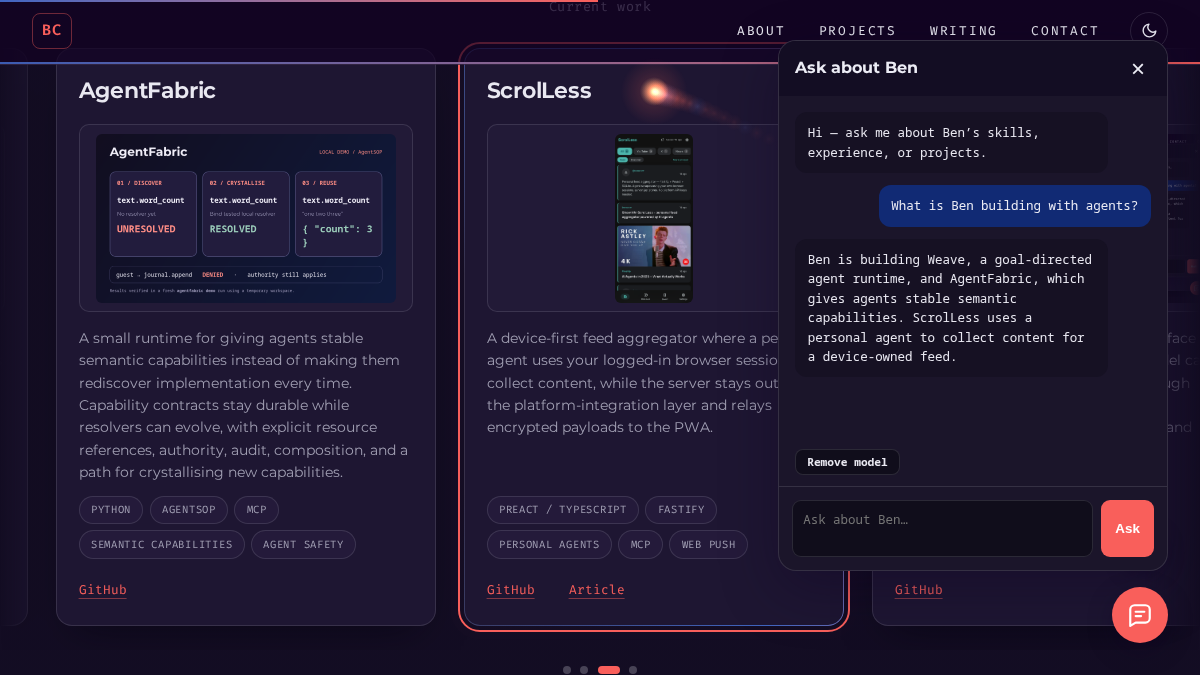
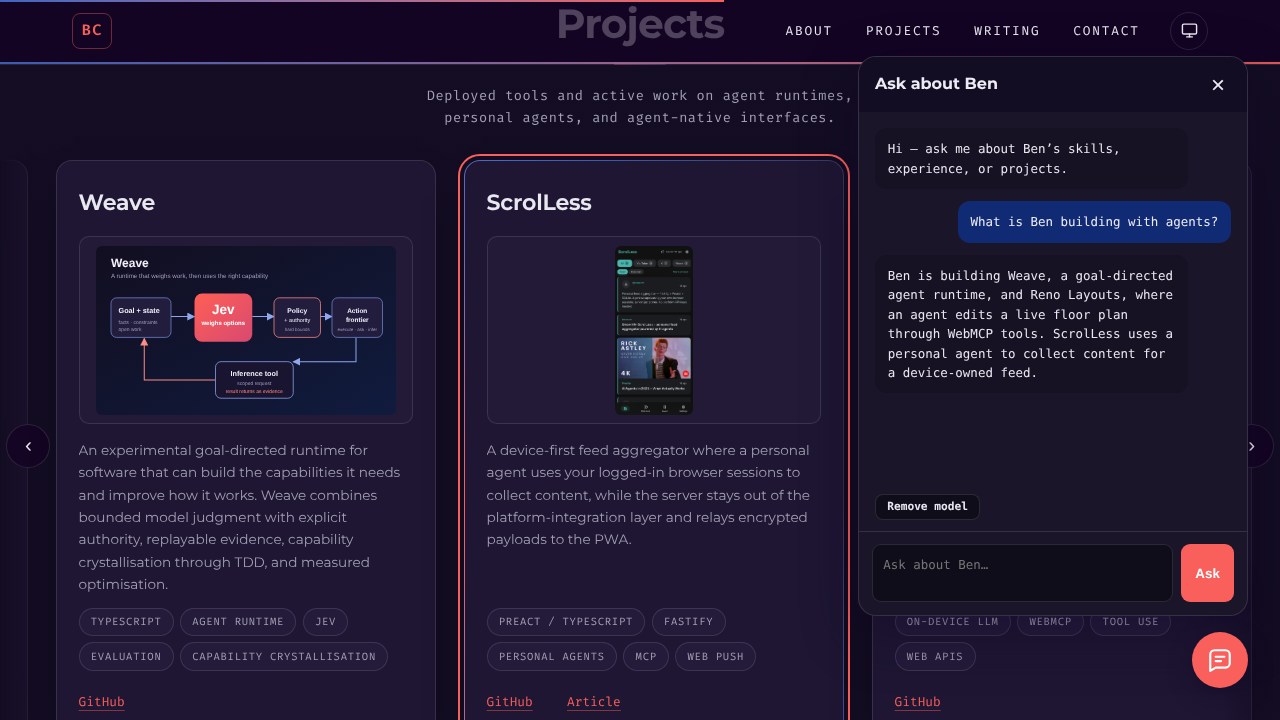
Consolidate projects into one section of active and deployed work (#46)
* Consolidate projects into one section of active and deployed work

Keep Reno Layouts, Weave, ScrolLess and the site's agent; drop
AgentFabric and the Earlier experiments rail. Sync the site agent's
project facts and tool examples with the cards shown.

Claude-Session: https://claude.ai/code/session_012CjiNsPZmqyNNrLVUV2C1t

* Remove stale project assets and refresh site agent screenshot

Delete images no longer referenced by any page (removed project cards
and diagrams dropped from essay rewrites), update matching examples in
site-focus.js to current projects, and retake the site agent card
screenshot against the trimmed Projects section.

Claude-Session: https://claude.ai/code/session_012CjiNsPZmqyNNrLVUV2C1t

---------

diff --git a/index.html b/index.html
@@ -144,10 +144,8 @@
         <div class="header-container">
             <h2>Projects</h2>
         </div>
-        <h3 class="section-tagline">Experiments in agent runtimes, semantic capabilities, personal agents, and agent-native interfaces.</h3>
-
-        <h3 class="section-tagline">Current work</h3>
-        <div class="project-list" role="list" tabindex="0" aria-label="Current project cards — scroll horizontally to browse">
+        <h3 class="section-tagline">Deployed tools and active work on agent runtimes, personal agents, and agent-native interfaces.</h3>
+        <div class="project-list" role="list" tabindex="0" aria-label="Project cards — scroll horizontally to browse">
             <article class="project-card" role="listitem">
                 <header class="card-header">
                     <h3 id="project-head-reno-layouts">Reno Layouts</h3>
@@ -199,30 +197,6 @@
 
             <article class="project-card" role="listitem">
                 <header class="card-header">
-                    <h3 id="project-head-agentfabric">AgentFabric</h3>
-                </header>
-                <div class="project-info-container">
-                    <div class="project-image-container">
-                        <img src="resources/images/agentfabric-demo.png" alt="AgentFabric local demo showing capability status, authority checks, and crystallisation" loading="lazy" />
-                    </div>
-                    <div class="project-description">
-                        A small runtime for giving agents stable semantic capabilities instead of making them rediscover implementation every time. Capability contracts stay durable while resolvers can evolve, with explicit resource references, authority, audit, composition, and a path for crystallising new capabilities.
-                    </div>
-                </div>
-                <div class="project-tags">
-                    <span>Python</span>
-                    <span>AgentSOP</span>
-                    <span>MCP</span>
-                    <span>Semantic Capabilities</span>
-                    <span>Agent Safety</span>
-                </div>
-                <div class="project-links">
-                    <a href="https://github.com/CrowBe/AgentFabric" target="_blank" rel="noopener noreferrer">GitHub</a>
-                </div>
-            </article>
-
-            <article class="project-card" role="listitem">
-                <header class="card-header">
                     <h3 id="project-head-scrolless">ScrolLess</h3>
                 </header>
                 <div class="project-info-container">
@@ -267,79 +241,6 @@
                 <div class="project-links">
                     <a href="https://github.com/CrowBe/crowbe.github.io" target="_blank" rel="noopener noreferrer">GitHub</a>
                 </div>
-            </article>
-        </div>
-
-        <h3 class="section-tagline">Earlier experiments</h3>
-        <div class="project-list" role="list" tabindex="0" aria-label="Earlier project cards — scroll horizontally to browse">
-            <article class="project-card" role="listitem">
-                <header class="card-header"><h3 id="project-head-agentbranch">agent.branch</h3></header>
-                <div class="project-info-container">
-                    <div class="project-image-container">
-                        <img src="resources/images/agentbranch-live.png" alt="agent.branch workspace showing plain-language Insights from a triggering evaluation" loading="lazy" />
-                    </div>
-                    <div class="project-description">
-                        A workbench for authoring portable agent skills, visualising their logic, testing them against mocked tools, and evaluating whether they trigger when they should before export.
-                    </div>
-                </div>
-                <div class="project-tags">
-                    <span>Next.js / TypeScript</span><span>LLM APIs</span><span>Agent Skills</span><span>Evaluation</span>
-                </div>
-                <div class="project-links"><a href="https://github.com/CrowBe/agentbranch" target="_blank" rel="noopener noreferrer">GitHub</a></div>
-            </article>
-
-            <article class="project-card" role="listitem">
-                <header class="card-header"><h3 id="project-head-clawface">ClawFace</h3></header>
-                <div class="project-info-container">
-                    <div class="project-image-container">
-                        <img src="resources/images/clawface-demo.png" alt="ClawFace mobile agents screen with sample agents and pending approvals" loading="lazy" />
-                    </div>
-                    <div class="project-description">
-                        A mobile command surface for supervising and messaging trusted AI agents, including pairing, threads, approvals, notifications, and direct OpenClaw Gateway integration.
-                    </div>
-                </div>
-                <div class="project-tags"><span>React Native / Expo</span><span>TypeScript</span><span>OpenClaw</span><span>AI Agents</span></div>
-                <div class="project-links"><a href="https://github.com/CrowBe/ClawFace" target="_blank" rel="noopener noreferrer">GitHub</a></div>
-            </article>
-
-            <article class="project-card" role="listitem">
-                <header class="card-header"><h3 id="project-head-rails-ai">Rails AI 20 Questions</h3></header>
-                <div class="project-info-container">
-                    <div class="project-image-container"><img src="resources/images/rails_20_q_login.png" alt="Pixel art sky and grass with login form centred" loading="lazy" /></div>
-                    <div class="project-description">A web game built with my wife Niki. The AI thinks of something and answers your yes/no questions until you guess it — or run out of turns.</div>
-                </div>
-                <div class="project-tags"><span>Ruby on Rails</span><span>OpenAI</span><span>Docker</span></div>
-                <div class="project-links"><a href="https://github.com/CrowBe/rails_twenty_questions_ai_bot" target="_blank" rel="noopener noreferrer">GitHub</a><a href="https://mysite-i0j9.onrender.com/" target="_blank" rel="noopener noreferrer">Deployment</a></div>
-            </article>
-
-            <article class="project-card" role="listitem">
-                <header class="card-header"><h3 id="project-head-hooks">React Hooks Library</h3></header>
-                <div class="project-info-container">
-                    <div class="project-image-container"><img src="resources/images/hooks-library-1.svg" alt="bc-react-hooks-library package listing all 11 hooks" loading="lazy" /></div>
-                    <div class="project-description">A free kit of 11 reusable building blocks for React apps, covering common jobs such as persisted settings, resizing and clipboard interaction.</div>
-                </div>
-                <div class="project-tags"><span>TypeScript</span><span>React</span><span>NPM</span></div>
-                <div class="project-links"><a href="https://github.com/CrowBe/react-hooks-library" target="_blank" rel="noopener noreferrer">GitHub</a><a href="https://www.npmjs.com/package/bc-react-hooks-library" target="_blank" rel="noopener noreferrer">NPM</a></div>
-            </article>
-
-            <article class="project-card" role="listitem">
-                <header class="card-header"><h3 id="project-head-movie">Movie Finder Widget</h3></header>
-                <div class="project-info-container">
-                    <div class="project-image-container"><img src="resources/images/movie-widget-1.png" alt="Web app with search bar and movie info cards" loading="lazy" /></div>
-                    <div class="project-description">A quick way to search films, shows and cast, with the details laid out at a glance. Rebuilt on newer foundations after the tooling it started on aged out.</div>
-                </div>
-                <div class="project-tags"><span>React</span><span>TypeScript</span></div>
-                <div class="project-links"><a href="https://github.com/CrowBe/movie-finder-widget" target="_blank" rel="noopener noreferrer">GitHub</a><a href="https://movie-finder-widget.vercel.app/" target="_blank" rel="noopener noreferrer">Deployment</a></div>
-            </article>
-
-            <article class="project-card" role="listitem">
-                <header class="card-header"><h3 id="project-head-crypto">Crypto Price Tracker</h3></header>
-                <div class="project-info-container">
-                    <div class="project-image-container"><img src="resources/images/cryptotracker-1.png" alt="Crypto price tracker showing coin prices across multiple currencies" loading="lazy" /></div>
-                    <div class="project-description">Live prices for seven cryptocurrencies with history charts, browser alerts and offline support.</div>
-                </div>
-                <div class="project-tags"><span>TypeScript</span><span>React PWA</span><span>Node/Express</span><span>Tailwind</span></div>
-                <div class="project-links"><a href="https://github.com/CrowBe/crypto-price-pwa" target="_blank" rel="noopener noreferrer">Frontend</a><a href="https://github.com/CrowBe/crypto-price-server" target="_blank" rel="noopener noreferrer">Backend</a></div>
             </article>
         </div>
     </section>

diff --git a/resources/scripts/site-tools.js b/resources/scripts/site-tools.js
@@ -32,13 +32,10 @@ const ABOUT_BEN = {
     "Technical leadership: code review, cross-team pairing, internal documentation, and developer education.",
   ],
   projects: [
-    "Weave (experimental): goal-directed agent runtime that weighs available actions over explicit state, applies policy and authority boundaries, and requests inference as a tool when needed.",
-    "AgentFabric (MVP): runtime for stable AgentSOP semantic capabilities, with explicit ResourceRefs, grants, audit, and a path to crystallise new resolvers.",
-    "agent.branch (in development): author and validate AI agent skills — chat-driven builder, logic diagrams, mocked test-runs, trigger checks, and portable SKILL.md export.",
-    "ClawFace (in development): React Native (Expo) mobile app for supervising AI coding agents, with QR pairing, an Ed25519-authenticated WebSocket protocol, approval workflows, and push notifications.",
-    "ScrolLess (open source): agent-powered feed aggregator with an end-to-end-encrypted relay — MCP server plus Fastify backend, Preact PWA client, and Web Push.",
-    "crypto-price-pwa (production): live cryptocurrency price progressive web app.",
-    "react-hooks-library (released): published NPM package of reusable React hooks.",
+    "Reno Layouts (deployed): browser-based renovation floor-plan studio (TypeScript, React, three.js) where an agent edits the live 2D/3D model through WebMCP tools.",
+    "Weave (active development): goal-directed agent runtime that weighs available actions over explicit state, applies policy and authority boundaries, and requests inference as a tool when needed.",
+    "ScrolLess (active development): agent-powered feed aggregator with an end-to-end-encrypted relay — MCP server plus Fastify backend, Preact PWA client, and Web Push.",
+    "This site's agent (deployed): on-device browser model that answers questions about Ben's work through explicit site functions, also exposed as WebMCP tools.",
   ],
   education: [
     "Coder Academy: Diploma of Information Technology (MERN stack, Ruby on Rails), 2019.",
@@ -58,7 +55,7 @@ const ABOUT_BEN = {
 
   // Every answer is followed by a note about what the page just did, so a
   // remote agent knows the visitor's screen moved and can talk about it
-  // ("I've highlighted ClawFace for you") instead of describing a page the
+  // ("I've highlighted ScrolLess for you") instead of describing a page the
   // human isn't looking at.
   const focusNote = (targets) => {
     if (!targets || !targets.length) return "";
@@ -127,7 +124,7 @@ const ABOUT_BEN = {
         properties: {
           highlight: {
             type: "string",
-            description: "Optional project name or page id to scroll to and highlight, e.g. \"agent.branch\" or \"project-clawface\".",
+            description: "Optional project name or page id to scroll to and highlight, e.g. \"Weave\" or \"project-reno-layouts\".",
           },
         },
       },

diff --git a/resources/scripts/site-focus.js b/resources/scripts/site-focus.js
@@ -26,7 +26,7 @@
   const reduceMotion = () => window.matchMedia("(prefers-reduced-motion: reduce)").matches;
 
   // Normalise for matching: lowercase, strip punctuation that people and
-  // models drift on ("agent.branch" / "agent branch" / "agentbranch").
+  // models drift on ("Reno Layouts" / "reno-layouts" / "renolayouts").
   const normalise = (value) =>
     String(value || "")
       .toLowerCase()
@@ -119,7 +119,7 @@
         element: card,
         aliases: [id, label, squash(label), repo ? slugFromHref(repo.getAttribute("href")) : "", ...tags],
         // Project names are distinctive enough to scan prose for; the
-        // squashed form catches "agentbranch" as well as "agent.branch".
+        // squashed form catches "renolayouts" as well as "Reno Layouts".
         phrases: [label, squash(label)],
       });
     });
@@ -191,7 +191,7 @@
         alias = target;
       }
       // Partial match is a last resort, and the longest alias wins so
-      // "hooks library" beats a bare "hooks".
+      // "reno layouts" beats a bare "layouts".
       const partial = target.aliases.find(
         (a) => a.length >= 4 && (a.includes(wanted) || wanted.includes(a))
       );
@@ -218,7 +218,7 @@
         const found = haystack.indexOf(` ${phrase} `);
         if (found !== -1 && (at === -1 || found < at)) at = found;
       }
-      // "agent.branch" written as "agentbranch" survives normalisation
+      // "Reno Layouts" written as "renolayouts" survives normalisation
       // as one token, so check the squashed form too.
       if (at === -1 && target.squashedPhrases.some((p) => squashedHaystack.includes(p))) at = haystack.length;
       if (at !== -1) hits.push({ target, at });
@@ -226,7 +226,7 @@
     hits.sort((a, b) => a.at - b.at || KIND_RANK[a.target.kind] - KIND_RANK[b.target.kind]);
 
     // Drop a technology that's only there because a project already
-    // matched on it (highlighting "React" under a ClawFace answer is noise).
+    // matched on it (highlighting "React" under a Reno Layouts answer is noise).
     const specific = hits.some((hit) => hit.target.kind === "project" || hit.target.kind === "writing");
     return hits
       .filter((hit) => !(specific && hit.target.kind === "tech"))
